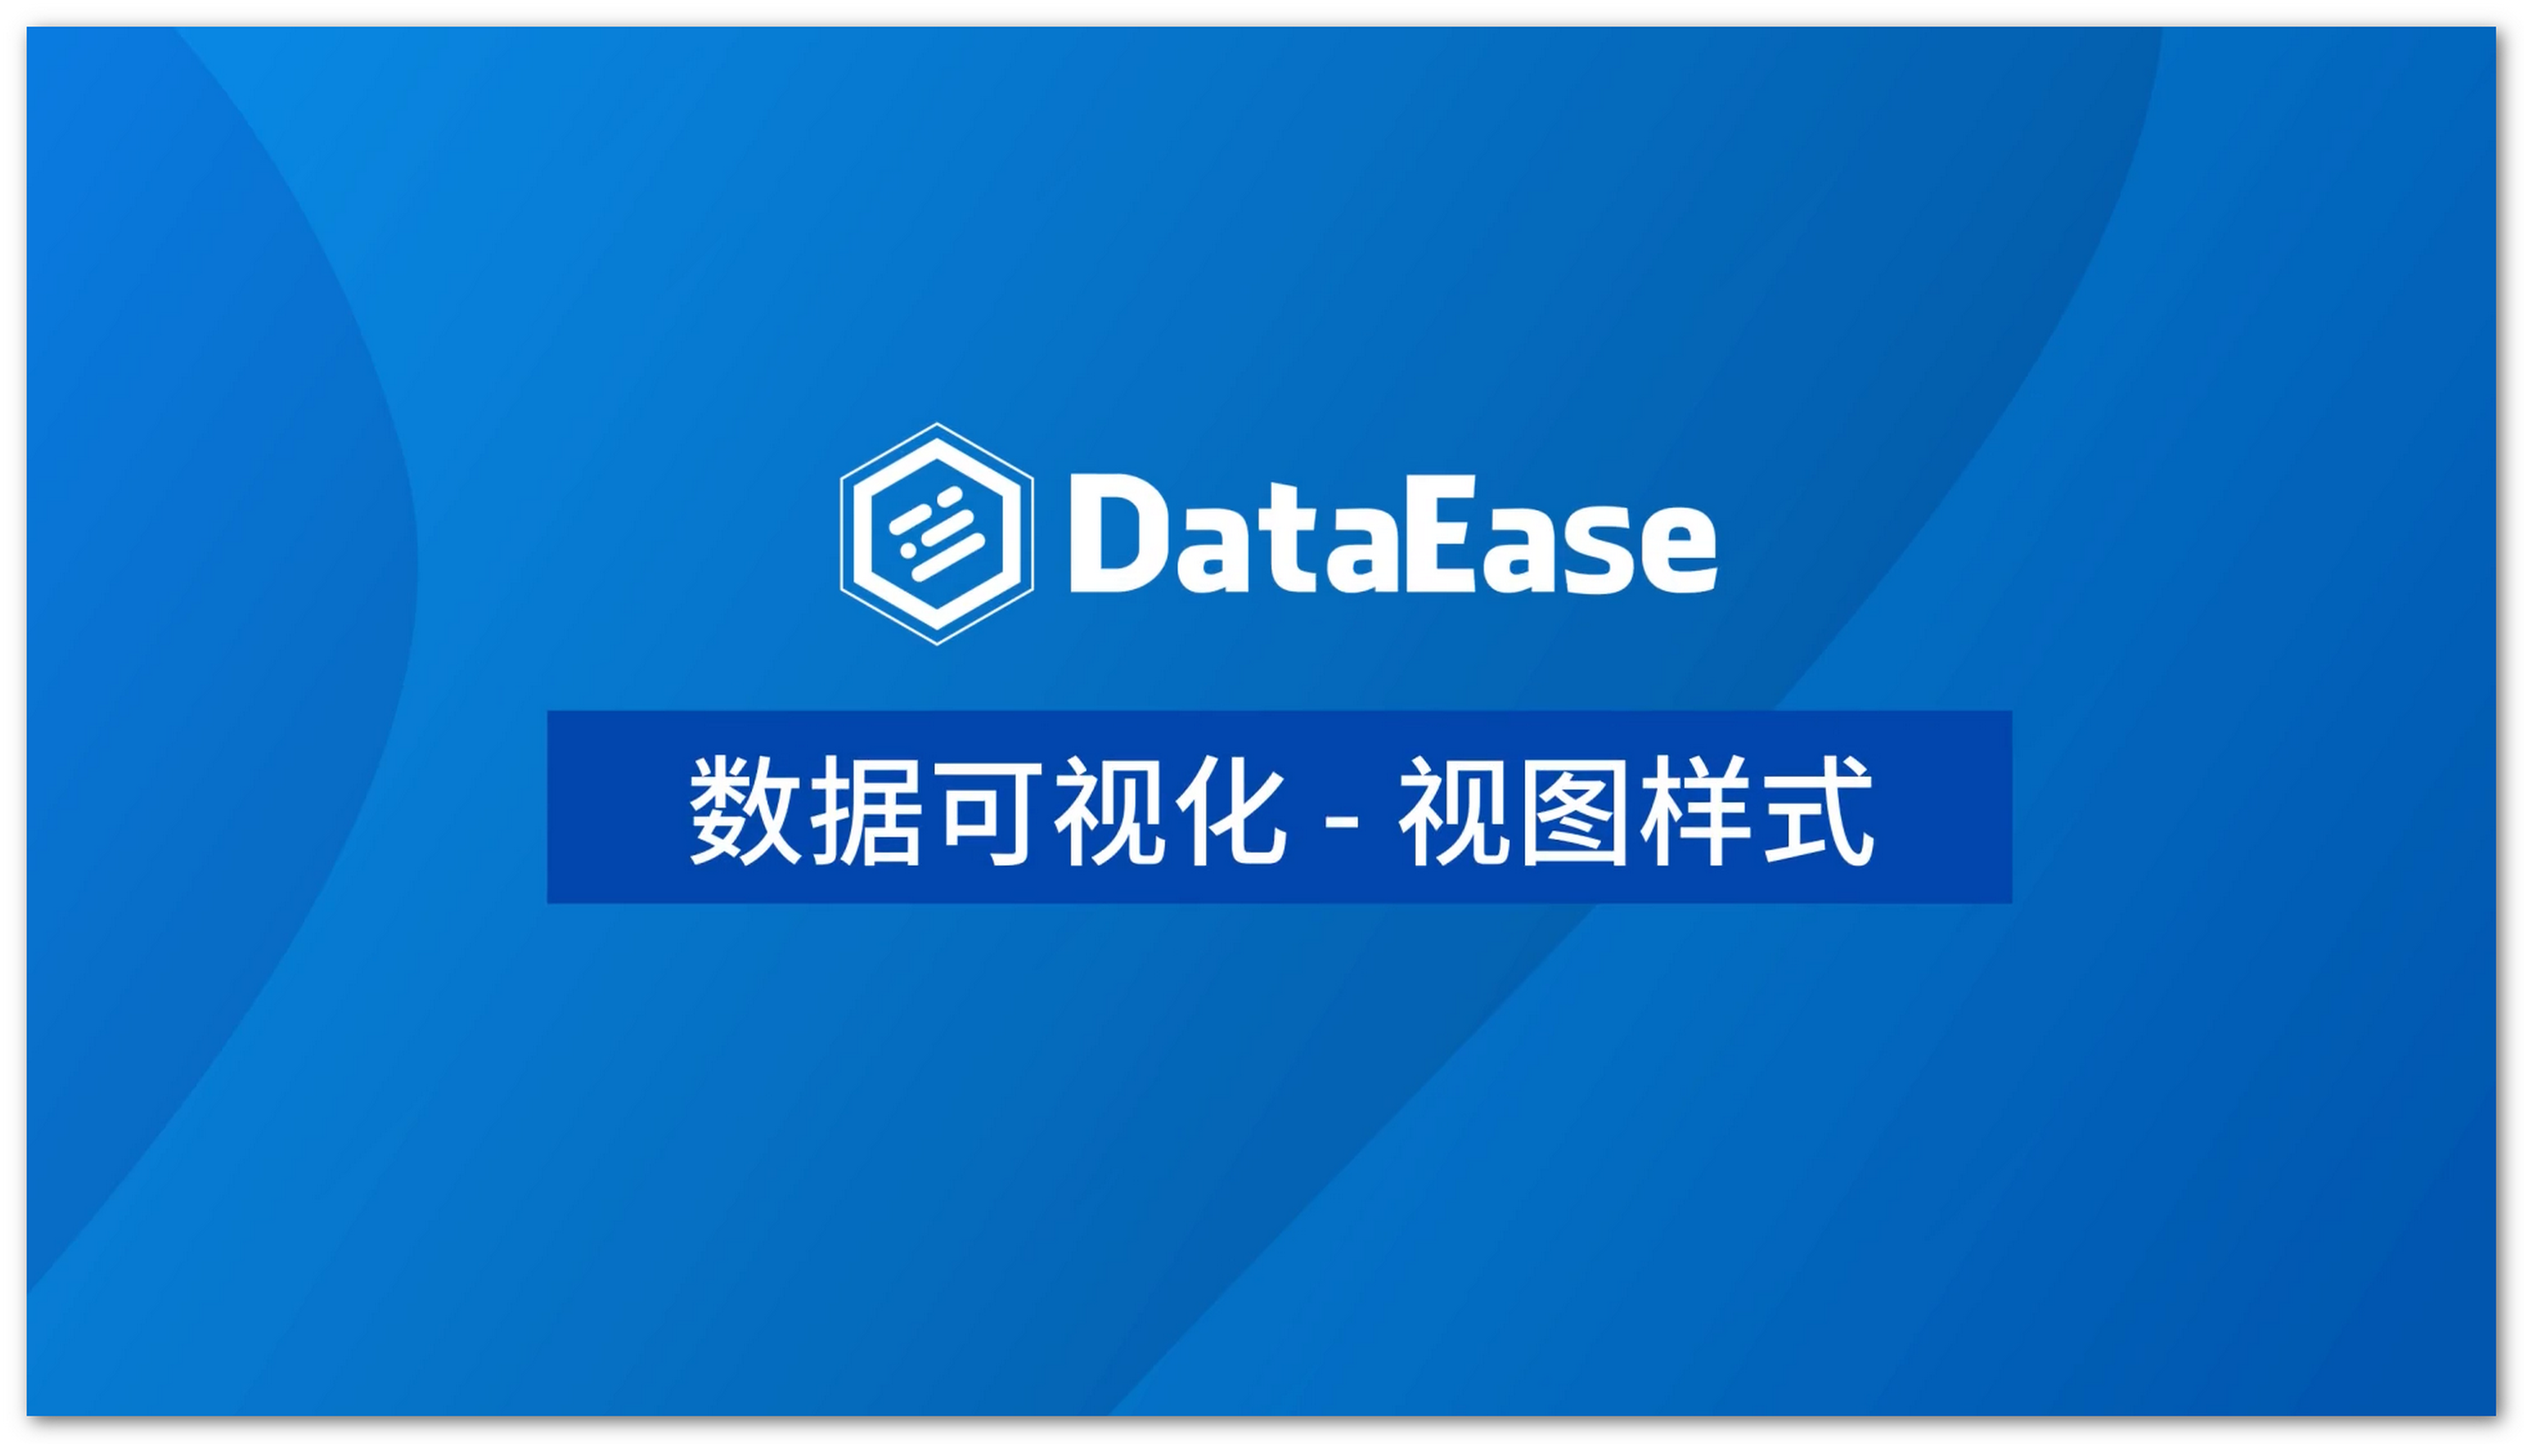
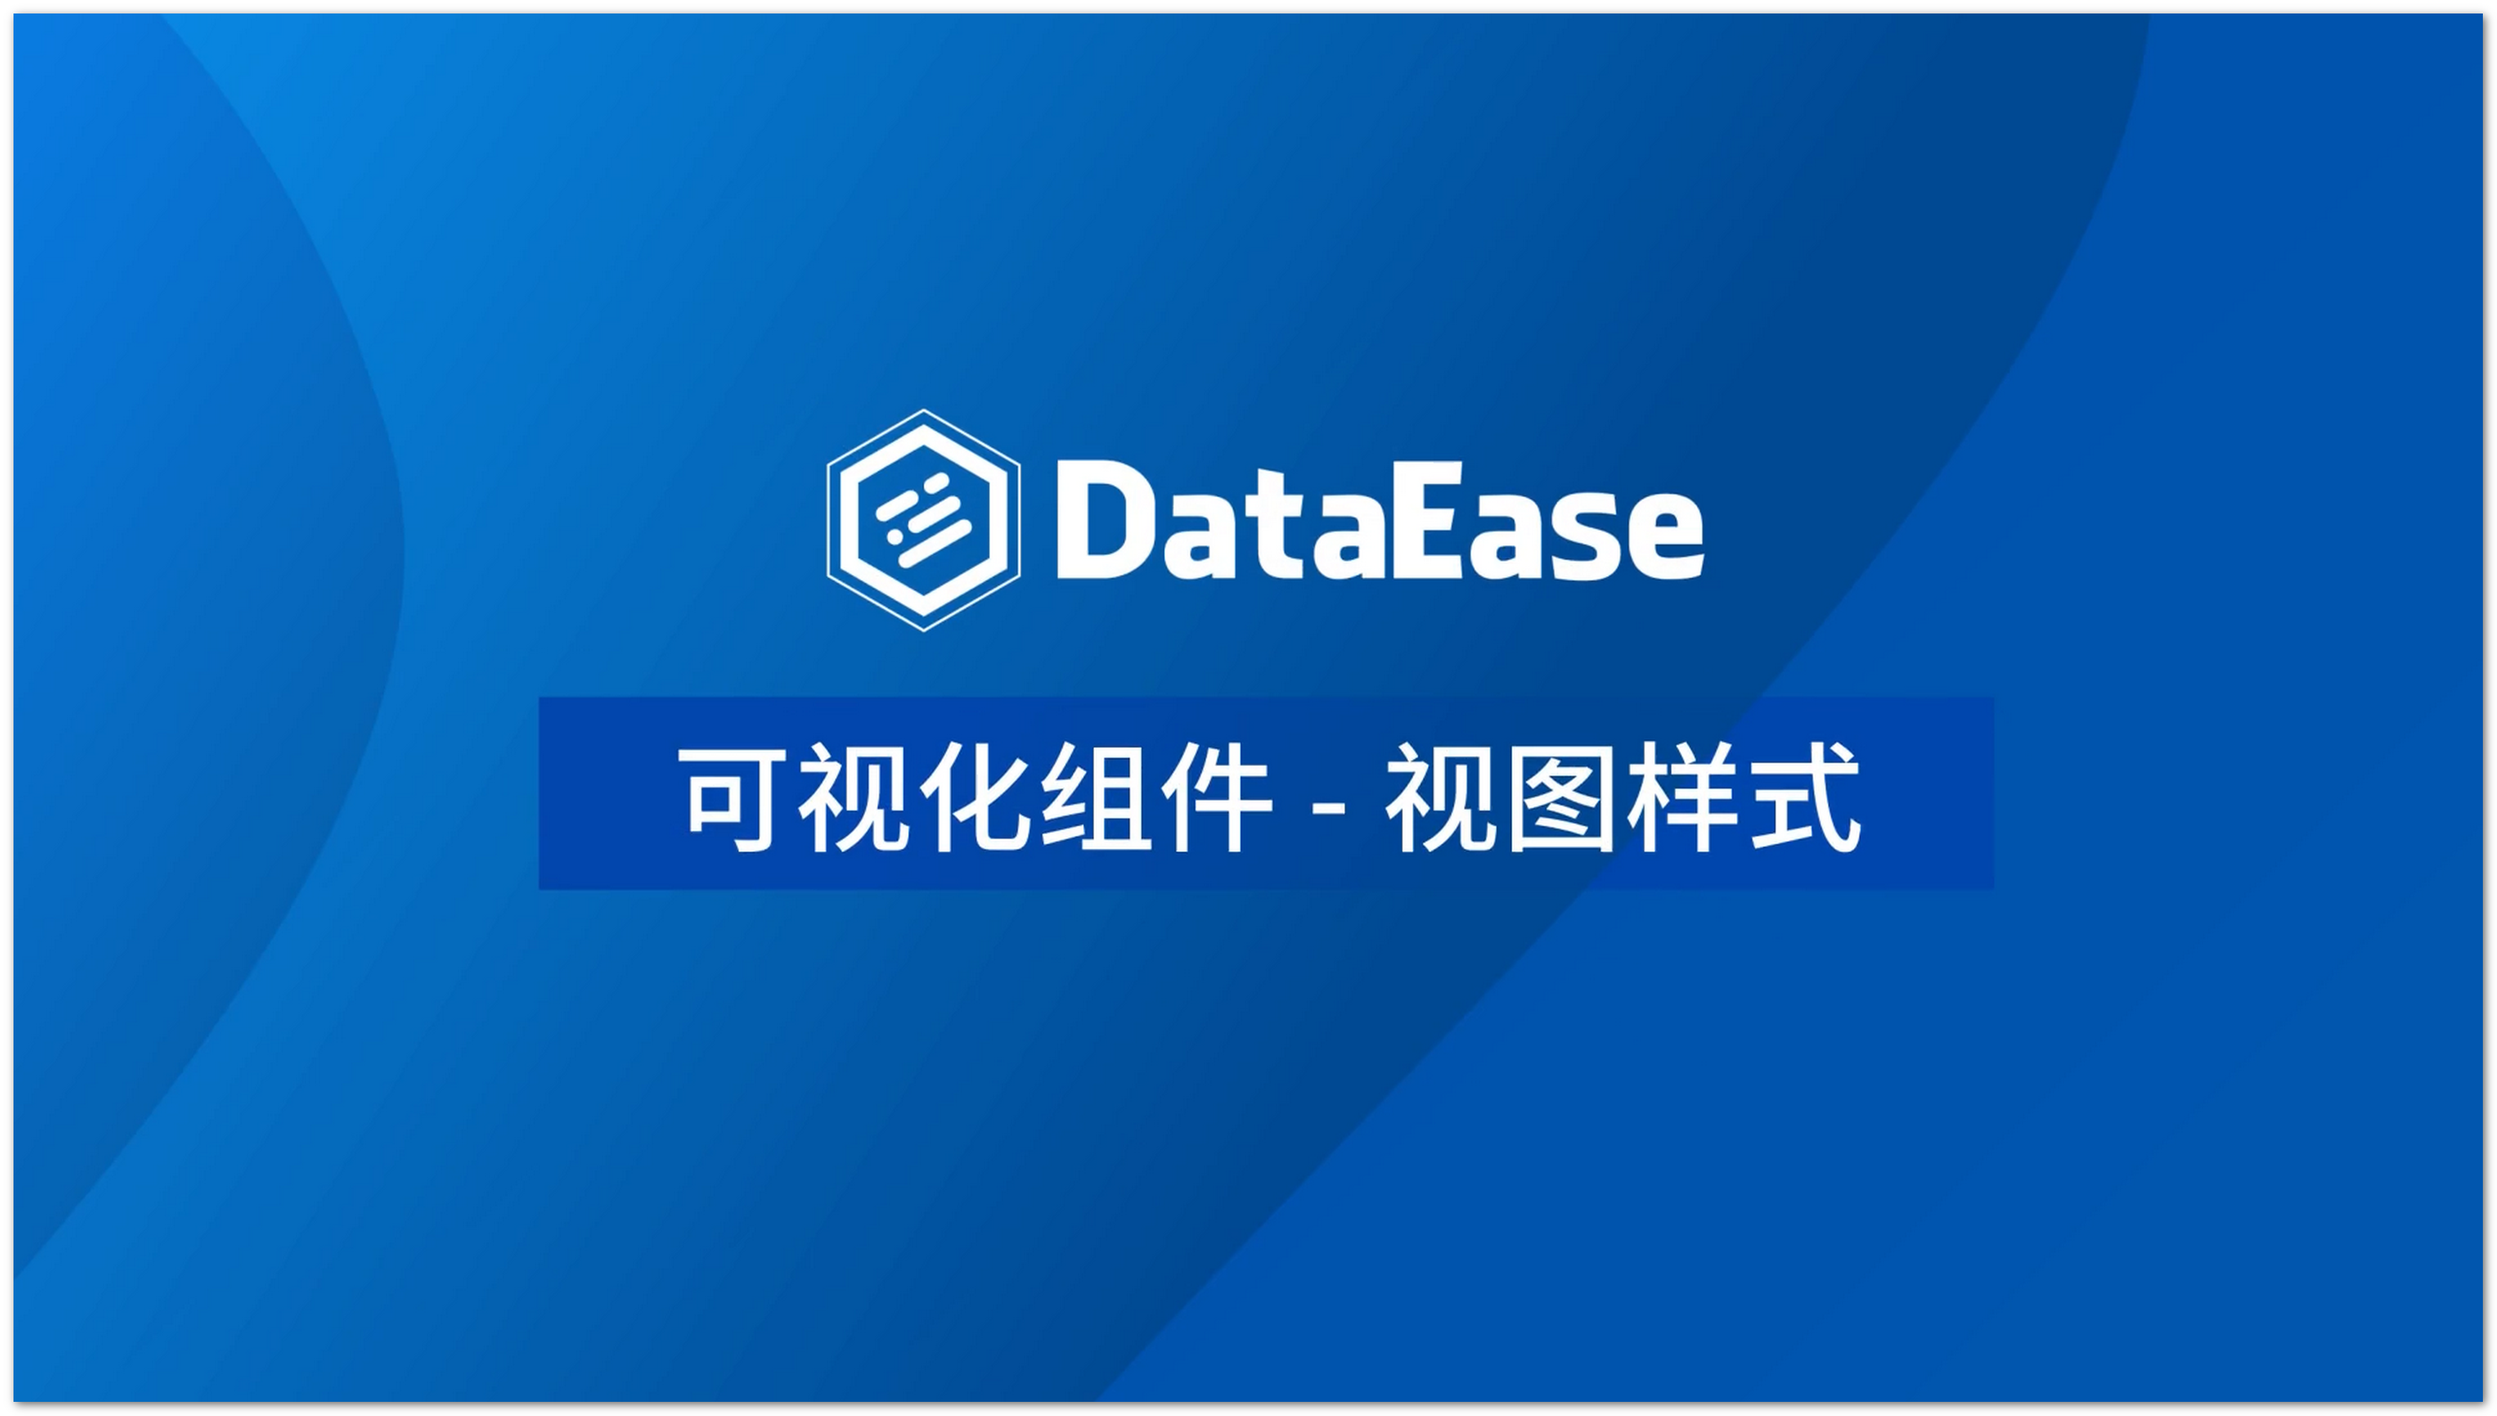
docs: 7 月版教学视频

diff --git a/docs/instructional_video.md b/docs/instructional_video.md
@@ -1,21 +1,24 @@
 ## 1 数据准备
 
-[![连接数据库并添加数据集](./img/video/连接数据库并添加数据集.png){ width="280"}](https://www.bilibili.com/video/BV15P4y1u7Pa?spm_id_from=333.999.0.0)
-[![Excel数据集和api数据集](./img/video/Excel数据集和api数据集.png){ width="280"}](https://www.bilibili.com/video/BV1cU4y1d77S?spm_id_from=333.999.0.0)
-[![数据集整合](img/video/数据集整合.png){ width="280"}](https://www.bilibili.com/video/BV1zY411n7Q1?spm_id_from=333.999.0.0) </br>
-[![数据加工](img/video/数据加工.png){ width="280"}](https://www.bilibili.com/video/BV1a3411s7MU/?spm_id_from=333.788.recommend_more_video.-1)
+[![连接数据库并添加数据集](./img/video/连接数据库并添加数据集.png){ width="280"}](https://www.bilibili.com/video/BV1F34y1n7J7/)
+[![Excel数据集和api数据集](./img/video/Excel数据集和api数据集.png){ width="280"}](https://www.bilibili.com/video/BV1Fa411D7Di/)
+[![数据集整合](img/video/数据集整合.png){ width="280"}](https://www.bilibili.com/video/BV1EB4y187AL/) </br>
+[![数据加工](img/video/数据加工.png){ width="280"}](https://www.bilibili.com/video/BV1Ed4y1Q7W3/)
 
-## 2 数据可视化
+## 2 可视化组件
 
-[![新建视图之散点图](img/video/新建视图之散点图.png){ width="280"}](https://www.bilibili.com/video/BV1JP4y1M7h6?spm_id_from=333.999.0.0)
-[![视图样式](img/video/视图样式.png){ width="280"}](https://www.bilibili.com/video/BV1jY4y1q7fb?spm_id_from=333.999.0.0)
-[![操作实践](img/video/操作实践.png){ width="280"}](https://www.bilibili.com/video/BV1234y147Y3?spm_id_from=333.999.0.0)
+[![新建视图之散点图](img/video/新建视图.png){ width="280"}](https://www.bilibili.com/video/BV1Da411S7qP/)
+[![视图样式](img/video/视图样式.png){ width="280"}](https://www.bilibili.com/video/BV1xB4y1Y75D/)
+[![操作实践](img/video/视图高级配置及实践.png){ width="280"}](https://www.bilibili.com/video/BV1DG411p7hK/)
 
-## 3 仪表板设计
+## 3 组件交互
 
-[![过滤组件](img/video/过滤组件.png){ width="280" }](https://www.bilibili.com/video/BV1wu411i7wo?spm_id_from=333.999.0.0)
-[![视图联动和下钻](img/video/视图联动和下钻.png){ width="280" }](https://www.bilibili.com/video/BV12q4y1Y7Hq?spm_id_from=333.999.0.0)
-[![视图跳转](img/video/视图跳转.png){ width="280" }](https://www.bilibili.com/video/BV1Ka41147sz?spm_id_from=333.999.0.0) </br>
-[![仪表板布局美化](img/video/仪表板布局美化.png){ width="280"}](https://www.bilibili.com/video/BV1j34y147rw?spm_id_from=333.999.0.0)
-[![移动端使用介绍](img/video/移动端使用介绍.png){ width="280" }](https://www.bilibili.com/video/BV18T4y1e7jU?spm_id_from=333.999.0.0)
-[![仪表板分享](img/video/仪表板分享.png){ width="280" }](https://www.bilibili.com/video/BV1ma411x7bM?spm_id_from=333.999.0.0)
+[![过滤组件](img/video/过滤组件.png){ width="280" }](https://www.bilibili.com/video/BV1ga411D7HF/?vd_source=df27bebbc60e924b35c14f8ae1f79a9d)
+[![联动和下钻](img/video/联动和下钻.png){ width="280" }](https://www.bilibili.com/video/BV1qd4y1Q79s/?vd_source=df27bebbc60e924b35c14f8ae1f79a9d)
+[![组件跳转](img/video/组件跳转.png){ width="280" }](https://www.bilibili.com/video/BV1QT411J7oR/?vd_source=df27bebbc60e924b35c14f8ae1f79a9d) </br>
+
+## 4 仪表板
+
+[![布局美化](img/video/布局美化.png){ width="280"}](https://www.bilibili.com/video/BV1HU4y1i7nY/?vd_source=df27bebbc60e924b35c14f8ae1f79a9d)
+[![移动端介绍](img/video/移动端介绍.png){ width="280" }](https://www.bilibili.com/video/BV1Pe4y197db/?vd_source=df27bebbc60e924b35c14f8ae1f79a9d)
+[![分享](img/video/分享.png){ width="280" }](https://www.bilibili.com/video/BV1pF411K7b7/?vd_source=df27bebbc60e924b35c14f8ae1f79a9d)
